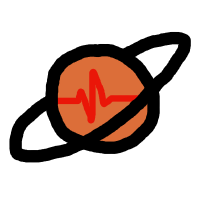
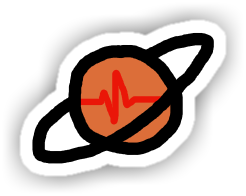
2 projetos + Novos ícones

diff --git a/projetos.html b/projetos.html
@@ -149,7 +149,7 @@
           {
             name: 'Convulsão Simulator',
             url: 'convulsao-simulator',
-            img: 'img/Projetos/Convulsão.svg',
+            img: 'img/Projetos/Convulsão.png',
             desc: 'Aperte freneticamente a tecla K.'
           },
           {
@@ -161,57 +161,69 @@
           {
             name: 'O Beat \'em Up mais fácil da história',
             url: 'beu-mais-facil',
-            img: 'https://cdn2.scratch.mit.edu/get_image/project/345792658_1440x1080.png',
+            img: 'img/Projetos/BEU.png',
             desc: 'Bata em carinhas até ganhar, porque não tem outra opção.'
           },
           {
             name: 'PIMJFF',
             url: 'pimjff',
-            img: 'https://cdn2.scratch.mit.edu/get_image/project/227100617_1440x1080.png',
+            img: 'img/Projetos/PIMJFF.png',
             desc: 'Um jogo de plataforma onde você atravessa paredes.'
           },
           {
             name: 'SZ Super',
             url: 'sz-super',
-            img: 'img/Projetos/SZ Super.svg',
+            img: 'img/Projetos/SZ Super.png',
             desc: 'Um pequeno mundo virtual espacial.'
           },
           {
             name: 'Tiro e Plataforma',
             url: 'tiro-e-plataforma',
-            img: 'https://cdn2.scratch.mit.edu/get_image/project/156312915_1440x1080.png',
+            img: 'img/Projetos/TEPlat.png',
             desc: 'Um teste de clone de Megaman com um nível só.'
           },
           {
             name: 'ScratcherZ',
             url: 'scratcherz',
-            img: 'img/Projetos/ScratcherZ.svg',
+            img: 'img/Projetos/ScratcherZ.png',
             desc: 'Uma série de jogos de mundo virtual.'
-          }
+          },
+          {
+            name: 'Super Worm World',
+            url: 'super-worm-world',
+            img: 'img/Projetos/SWW.png',
+            desc: 'Controle a minhoca e coma comidas.'
+          },
+          {
+            name: 'Fupicat OS Mobile',
+            url: 'fupicat-os-mobile',
+            img: 'img/Projetos/FOSM.png',
+            desc: 'Simulador de OS bem simples.'
+          },
         ],
         'anim': [
           {
             name: 'Scratchventura Traduzido',
             url: 'scratchventura-traduzido',
-            img: 'https://cdn2.scratch.mit.edu/get_image/project/278957849_1440x1080.png',
+            img: 'img/Projetos/ScratchTrad.png',
             desc: 'Animação antiga que eu fiz, mas todas as falas são passadas no Google Tradutor 10 vezes.'
           },
           {
             name: 'Vida de Pengoen',
             url: 'vida-de-pengoen',
-            img: 'img/Projetos/Pengoen.svg',
+            img: 'img/Projetos/Pengoen.png',
             desc: 'Um loop infinito da vida mais interessante de todas.'
           },
           {
             name: 'Novo SCDM',
             url: 'novo-scdm',
-            img: 'https://cdn2.scratch.mit.edu/get_image/project/154924266_1440x1080.png',
+            img: 'img/Projetos/SCDM.png',
             desc: 'Muita malvadagem.'
           },
           {
             name: 'Coisas do Scratch',
             url: 'coisas-do-scratch',
-            img: 'https://cdn2.scratch.mit.edu/get_image/project/154342532_1440x1080.png',
+            img: 'img/Projetos/CoisasDoScratch.png',
             desc: 'O show só para Scratchers.'
           },
         ],
@@ -271,7 +283,7 @@
           {
             name: 'Scratch Upload',
             url: 'https://fupicat.github.io/ScratchUpload',
-            img: 'https://en.scratch-wiki.info/w/images/Forum_Smiley_-_Mad.png',
+            img: 'img/Projetos/ScratchUpload.png',
             desc: 'Um host de imagens para o fórum do Scratch e outros que usam BBcode, sem propagandas nem login.'
           },
         ],
@@ -285,7 +297,7 @@
           {
             name: 'Mundo dos Palitos',
             url: 'mundo-dos-palitos',
-            img: 'img/Projetos/Fupalito.svg',
+            img: 'img/Projetos/Fupalito.png',
             desc: 'Série de animação onde viramos stickmen!'
           }
         ]

diff --git a/projetos/super-worm-world.html b/projetos/super-worm-world.html
@@ -1,0 +1,88 @@
+<!DOCTYPE html>
+<html lang="en" dir="ltr">
+  <head>
+    <meta charset="utf-8">
+    <meta name="viewport" content="width=device-width">
+    <link rel="stylesheet" href="../css/master.css">
+    <link href="https://fonts.googleapis.com/css?family=Ubuntu&display=swap" rel="stylesheet">
+
+    <meta name="description" content="Meus jogos e outras coisas.">
+    <meta name="keywords" content="fupi, fupicat, fupi437, scratch, godot, engine, html5, online, jogos, games, sz, scratcherz, música, royalty-free, public domain">
+    <meta name="author" content="Fupi">
+
+    <link rel="apple-touch-icon" sizes="180x180" href="../apple-touch-icon.png">
+    <link rel="icon" type="image/png" sizes="32x32" href="../favicon-32x32.png">
+    <link rel="icon" type="image/png" sizes="16x16" href="../favicon-16x16.png">
+    <link rel="manifest" href="../site.webmanifest">
+    <link rel="mask-icon" href="../safari-pinned-tab.svg" color="#6e438d">
+    <meta name="apple-mobile-web-app-title" content="Fupi">
+    <meta name="application-name" content="Fupi">
+    <meta name="msapplication-TileColor" content="#603cba">
+    <meta name="theme-color" content="#6e438d">
+
+    <title>Fupi &#183; Super Worm World</title>
+  </head>
+  <body>
+    <!-- Olá, eu sou o código-fonte. Por favor não repare na bagunça. '3' !-->
+    
+    <header></header>
+
+    <section class="proj-header">
+      <div class="container">
+        <h1>Super Worm World</h1>
+      </div>
+    </section>
+
+    <section class='browser-game'>
+      <div class="container">
+        <iframe src="https://scratch.mit.edu/projects/117837051/embed" allowtransparency="true" width="100%" height="620" frameborder="0" scrolling="no" allowfullscreen></iframe>
+        
+        <style>
+          body {
+            background-color: #5cd584;
+          }
+          .proj-header h1 {
+            color: #000;
+          }
+          .grid-item {
+            background-color: #0e5927;
+            color: #fff;
+          }
+          .grid-item a {
+            color: #a6ffc4;
+          }
+        </style>
+        
+        <div class="grid">
+          <div class="grid-item">
+            <div class="info">
+              <h1>Instruções</h1>
+              <p>Controles: Teclado ou Mouse</p>
+              <p>Clique no botão no meio do menu para trocar o esquema de controle.</p>
+              <p>Use o mouse ou as setinhas para andar.</p>
+              <p>Colete tacos e bolinhos, não encoste no vermelho.</p>
+            </div>
+          </div>
+          <div class="grid-item">
+            <div class="info">
+              <h1>Sobre</h1>
+              <p>Esse jogo é uma recriação de <a href='https://scratch.mit.edu/projects/2813039/'>um jogo antigo do Scratch</a>. Eu fiz mas não terminei, então postei sem terminar mesmo.</p>
+              <p>Lançado em 31 de janeiro de 2017</p>
+              <h1>Links</h1>
+              <p><a href="https://scratch.mit.edu/projects/117837051/">Página no Scratch</a></p>
+            </div>
+          </div>
+        </div>
+      </div>
+    </section>
+
+    <footer></footer>
+
+    <script
+	  src="https://code.jquery.com/jquery-3.4.1.min.js"
+	  integrity="sha256-CSXorXvZcTkaix6Yvo6HppcZGetbYMGWSFlBw8HfCJo="
+	  crossorigin="anonymous"></script>
+    <script src="/autoload.js"></script>
+
+  </body>
+</html>

diff --git a/projetos/fupicat-os-mobile.html b/projetos/fupicat-os-mobile.html
@@ -1,0 +1,87 @@
+<!DOCTYPE html>
+<html lang="en" dir="ltr">
+  <head>
+    <meta charset="utf-8">
+    <meta name="viewport" content="width=device-width">
+    <link rel="stylesheet" href="../css/master.css">
+    <link href="https://fonts.googleapis.com/css?family=Ubuntu&display=swap" rel="stylesheet">
+
+    <meta name="description" content="Meus jogos e outras coisas.">
+    <meta name="keywords" content="fupi, fupicat, fupi437, scratch, godot, engine, html5, online, jogos, games, sz, scratcherz, música, royalty-free, public domain">
+    <meta name="author" content="Fupi">
+
+    <link rel="apple-touch-icon" sizes="180x180" href="../apple-touch-icon.png">
+    <link rel="icon" type="image/png" sizes="32x32" href="../favicon-32x32.png">
+    <link rel="icon" type="image/png" sizes="16x16" href="../favicon-16x16.png">
+    <link rel="manifest" href="../site.webmanifest">
+    <link rel="mask-icon" href="../safari-pinned-tab.svg" color="#6e438d">
+    <meta name="apple-mobile-web-app-title" content="Fupi">
+    <meta name="application-name" content="Fupi">
+    <meta name="msapplication-TileColor" content="#603cba">
+    <meta name="theme-color" content="#6e438d">
+
+    <title>Fupi &#183; Fupicat OS Mobile</title>
+  </head>
+  <body>
+    <!-- Olá, eu sou o código-fonte. Por favor não repare na bagunça. '3' !-->
+    
+    <header></header>
+
+    <section class="proj-header">
+      <div class="container">
+        <h1>Fupicat OS Mobile</h1>
+      </div>
+    </section>
+
+    <section class='browser-game'>
+      <div class="container">
+        <iframe src="https://scratch.mit.edu/projects/138647307/embed" allowtransparency="true" width="100%" height="620" frameborder="0" scrolling="no" allowfullscreen></iframe>
+        
+        <style>
+          body {
+            background-color: #eec793;
+          }
+          .proj-header h1 {
+            color: #000;
+          }
+          .grid-item {
+            background-color: #b58341;
+            color: #fff;
+          }
+          .grid-item a {
+            color: #f4dfc2;
+          }
+        </style>
+        
+        <div class="grid">
+          <div class="grid-item">
+            <div class="info">
+              <h1>Instruções</h1>
+              <p>Controles: Mouse</p>
+              <p>Clique nos apps para abrí-los.</p>
+              <p>Clique no botão de casa para voltar à tela principal.</p>
+            </div>
+          </div>
+          <div class="grid-item">
+            <div class="info">
+              <h1>Sobre</h1>
+              <p>Um simulador de sistema operacional, bem primitivo, não tem quase nada pra fazer.</p>
+              <p>Lançado em 4 de janeiro de 2017</p>
+              <h1>Links</h1>
+              <p><a href="https://scratch.mit.edu/projects/138647307/">Página no Scratch</a></p>
+            </div>
+          </div>
+        </div>
+      </div>
+    </section>
+
+    <footer></footer>
+
+    <script
+	  src="https://code.jquery.com/jquery-3.4.1.min.js"
+	  integrity="sha256-CSXorXvZcTkaix6Yvo6HppcZGetbYMGWSFlBw8HfCJo="
+	  crossorigin="anonymous"></script>
+    <script src="/autoload.js"></script>
+
+  </body>
+</html>
